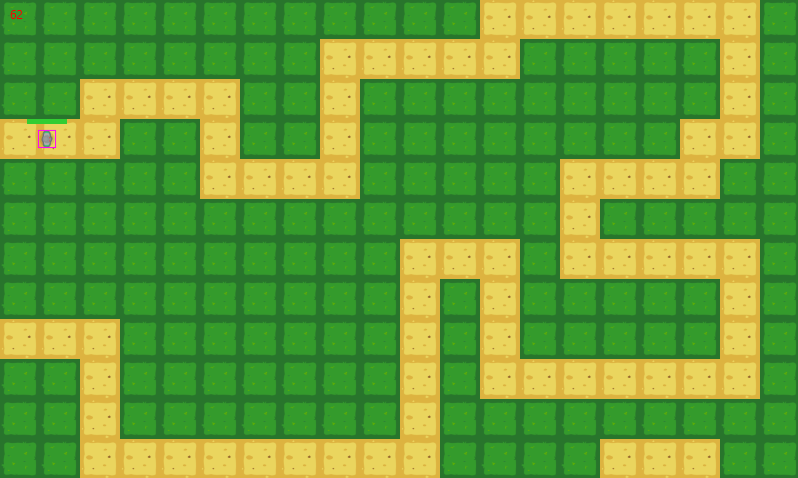
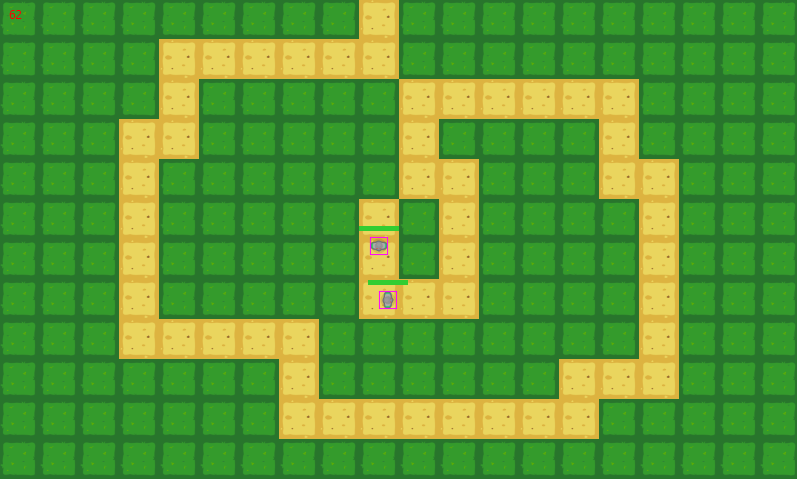
update map

diff --git a/src/main/java/game/Spawner.java b/src/main/java/game/Spawner.java
@@ -33,6 +33,8 @@ class List2D{
     }
 }
 public class Spawner extends AbstractTile {
+    private int xPos;
+    private int yPos;
     private int timeToLoadNewWave = 1300;
     private double spawnRate = 1;
     public static List<List<List2D>> listWaveTurn = new ArrayList<>(); //list chua so turn enemy ra, Map chua so luong cac enemy trong 1 turn
@@ -46,8 +48,10 @@ public class Spawner extends AbstractTile {
      * xem có load game cũ k
      * @param loadOlderGame
      */
-    public Spawner(boolean loadOlderGame){
+    public Spawner(boolean loadOlderGame, int x_pos, int y_pos){
         readWaveData(loadOlderGame);
+        this.xPos = x_pos;
+        this.yPos = y_pos;
     }
     @Override
     public void run() {
@@ -60,28 +64,28 @@ public class Spawner extends AbstractTile {
                         waveTurn.remove(enemyList);
                     }
                     else if(enemyList.getName().contains("NormalEnemy") && enemyList.getNumber() > 0 && betweenSpawnCount > 40/spawnRate){
-                        new NormalEnemy();
+                        new NormalEnemy(xPos*Settings.TILE_WIDTH, yPos*Settings.TILE_HEIGHT);
                         betweenSpawnCount = 0;
                         enemyList.setNumber(enemyList.getNumber() - 1);
                         GameField.numberOfEnemy++;
                         return;
                     }
                     else if(enemyList.getName().contains("TankerEnemy") && enemyList.getNumber() > 0 && betweenSpawnCount > 50/spawnRate){
-                        new TankerEnemy();
+                        new TankerEnemy(xPos*Settings.TILE_WIDTH, yPos*Settings.TILE_HEIGHT);
                         betweenSpawnCount = 0;
                         enemyList.setNumber(enemyList.getNumber() - 1);
                         GameField.numberOfEnemy++;
                         return;
                     }
                     else if(enemyList.getName().contains("SmallEnemy") && enemyList.getNumber() > 0 && betweenSpawnCount > 20/spawnRate){
-                        new SmallEnemy();
+                        new SmallEnemy(xPos*Settings.TILE_WIDTH, yPos*Settings.TILE_HEIGHT);
                         betweenSpawnCount = 0;
                         enemyList.setNumber(enemyList.getNumber() - 1);
                         GameField.numberOfEnemy++;
                         return;
                     }
                     else if(enemyList.getName().contains("BossEnemy") && enemyList.getNumber() > 0 && betweenSpawnCount > 60/spawnRate){
-                        new BossEnemy();
+                        new BossEnemy(xPos*Settings.TILE_WIDTH, yPos*Settings.TILE_HEIGHT);
                         betweenSpawnCount = 0;
                         enemyList.setNumber(enemyList.getNumber() - 1);
                         GameField.numberOfEnemy++;
@@ -141,6 +145,5 @@ public class Spawner extends AbstractTile {
         } catch (Exception e) {
             System.out.println(e.toString());
         }
-
     }
 }

diff --git a/src/main/java/game/GameManager.java b/src/main/java/game/GameManager.java
@@ -68,22 +68,22 @@ public class GameManager {
                 else if(line[0].contains("NormalTower")){
                     double x = Double.parseDouble(line[1]);
                     double y = Double.parseDouble(line[2]);
-                    new NormalTower(x, y);
+                    new NormalTower(x, y).addClickArea(x, y, Settings.NORMAL_TOWER_PRICE);
                 }
                 else if(line[0].contains("SniperTower")){
                     double x = Double.parseDouble(line[1]);
                     double y = Double.parseDouble(line[2]);
-                    new SniperTower(x, y);
+                    new SniperTower(x, y).addClickArea(x, y, Settings.SNIPER_TOWER_PRICE);
                 }
                 else if(line[0].contains("MachineGunTower")){
                     double x = Double.parseDouble(line[1]);
                     double y = Double.parseDouble(line[2]);
-                    new MachineGunTower(x, y);
+                    new MachineGunTower(x, y).addClickArea(x, y, Settings.MACHINE_GUN_TOWER_PRICE);
                 }
                 else if(line[0].contains("SpreadTower")){
                     double x = Double.parseDouble(line[1]);
                     double y = Double.parseDouble(line[2]);
-                    new SpreadTower(x, y);
+                    new SpreadTower(x, y).addClickArea(x, y, Settings.SPREAD_TOWER_PRICE);
                 }
                 //enemy
                 else if(line[0].contains("NormalEnemy")){

diff --git a/src/main/java/game/screen/PlayScreen.java b/src/main/java/game/screen/PlayScreen.java
@@ -45,7 +45,13 @@ public class PlayScreen extends Screen {
             new GameManager().loadData();
             WelcomeScreen.isLoadData = false;
         }
-        GameField.spawner = new Spawner(GameField.loadOrderGame);
+        if(GameField.mapURL.contains("map_1")){
+            GameField.spawner = new Spawner(GameField.loadOrderGame, 0, 3);
+        }else if(GameField.mapURL.contains("map_2")) {
+            GameField.spawner = new Spawner(GameField.loadOrderGame, 9, 5);
+        }else{
+            GameField.spawner = new Spawner(GameField.loadOrderGame, 0, 3);
+        }
         GameField.loadOrderGame = false; //sau khi new spawner thì cho bằng false để cho lần load sau
 
         Text fpsTxt = new Text(Double.toString(fps));
@@ -86,7 +92,6 @@ public class PlayScreen extends Screen {
     }
 
     private void whenWinning(){
-        System.err.println(Spawner.getNumOfWavesRemaining() + " " + GameField.numberOfEnemy);
         if(Spawner.getNumOfWavesRemaining() == 0 && GameField.numberOfEnemy == 0){
             GameStage.signNewScreen(new GameWinningScreen());
         }
